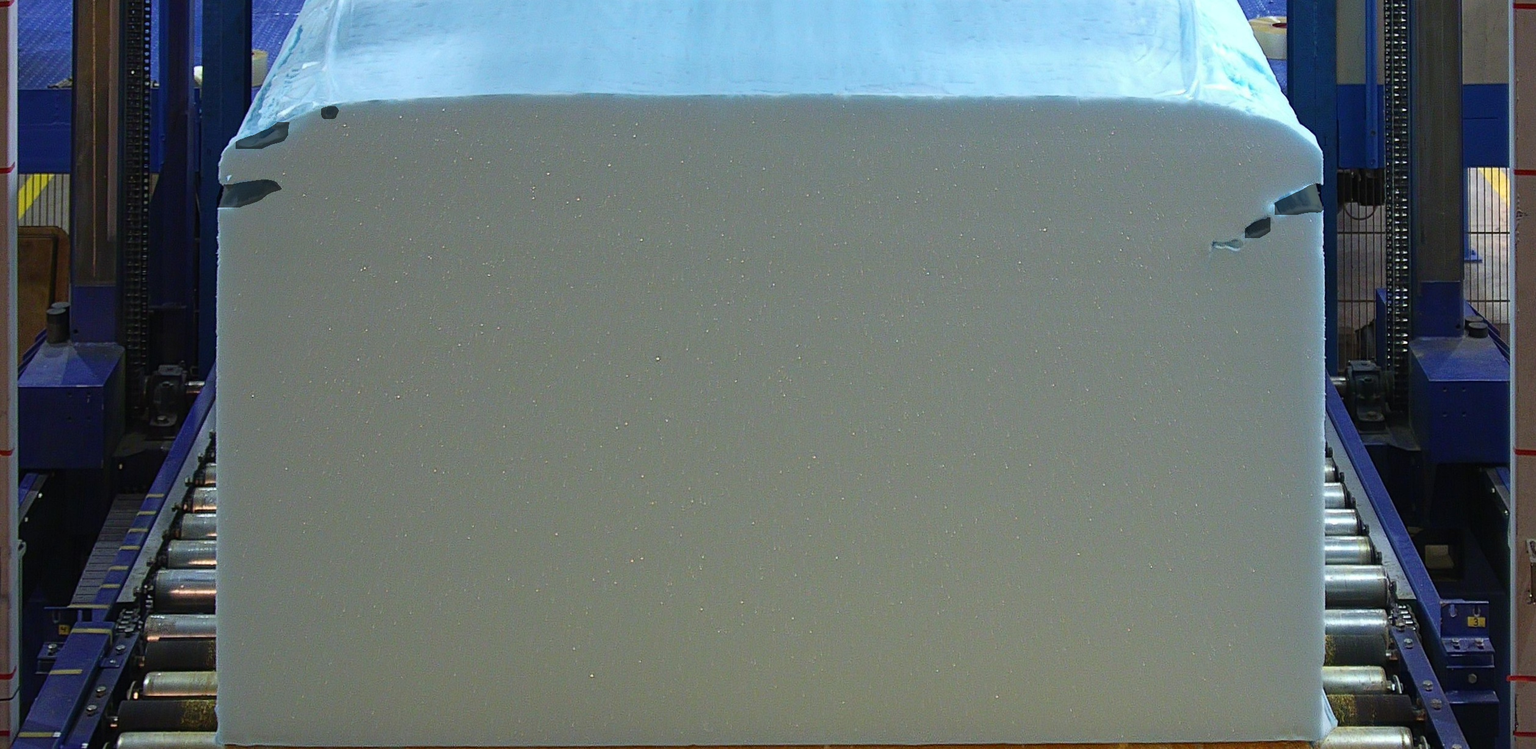
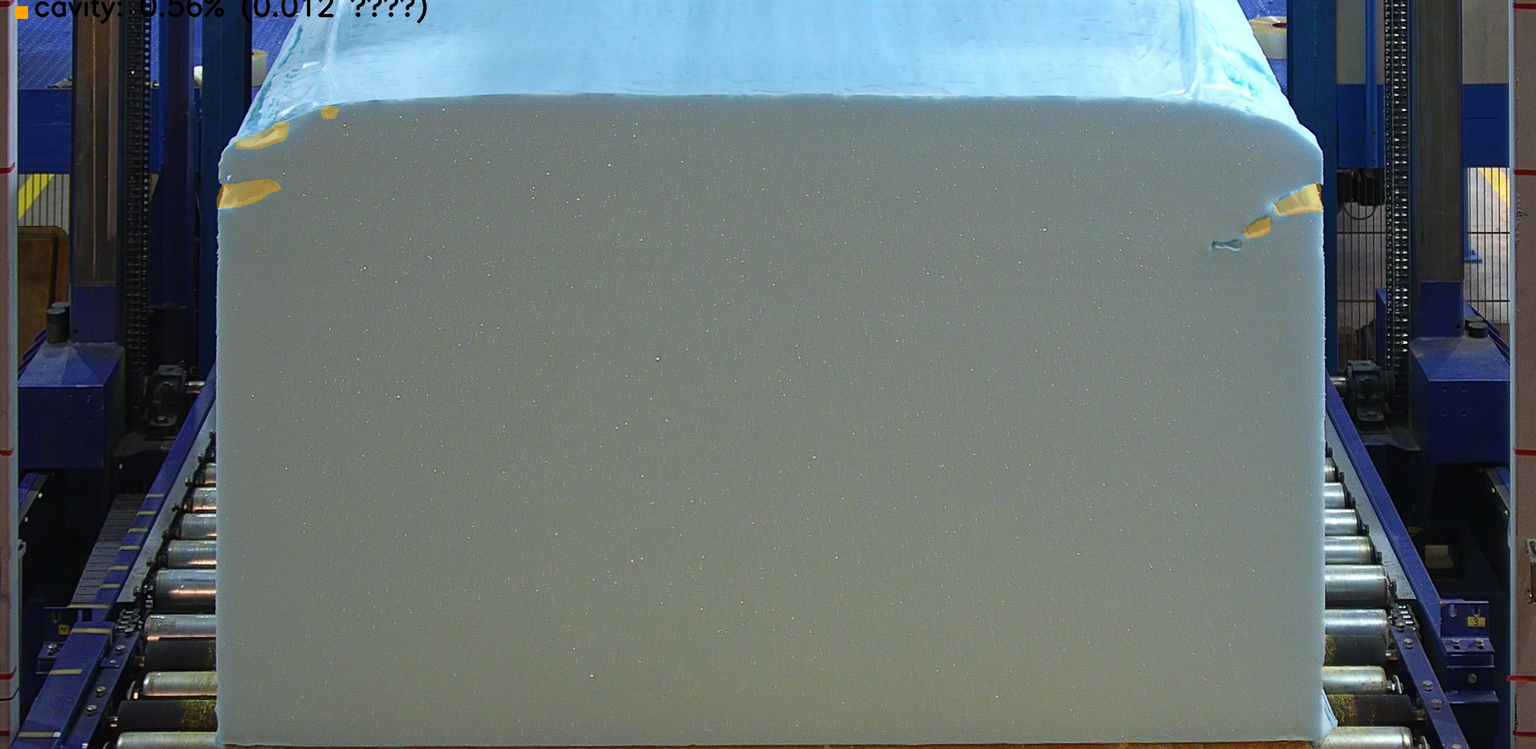
push

diff --git a/src/inference/onnx_inf.py b/src/inference/onnx_inf.py
@@ -1,11 +1,23 @@
+# src/inference/onnx_inf.py
 #!/usr/bin/env python3
 # -*- coding: utf-8 -*-
 """
-Универсальный инференс YOLOv8-Seg (ONNX Runtime) для:
-  • профиля  (combine="best")  – одна лучшая маска
-  • дефектов (combine="union") – объединение всех масок > conf
+Универсальный инференс YOLOv8-Seg (ONNX Runtime).
+
+Поддерживает два режима:
+  • combine="best"   – возвращается одна маска с максимальным confidence
+    (используем для сегментации профиля).
+  • combine="all"    – возвращаются ВСЕ маски, прошедшие NMS-порог;
+    вместе с классами и «склеенной» union-маской (для дефектов).
+
+call() → tuple:
+    mask_union : np.ndarray | None      # uint8 (H×W) 0/255   (best → одиночная)
+    overlay    : np.ndarray | None      # BGR-картинка с заливкой
+    masks_all  : np.ndarray | None      # (N,H,W) uint8 0/255 (None если combine="best")
+    cls_ids    : list[int]  | None      # классы длиной N      (None если combine="best")
 """
 from __future__ import annotations
+
 from pathlib import Path
 from typing import Tuple, Optional, Literal
 
@@ -17,18 +29,21 @@ from ultralytics.utils import ops
 
 
 class Yolov8SegONNX:
-    # ----------------------------- init ---------------------------------
+    # ------------------------------------------------------------------ #
     def __init__(self, cfg: dict):
-        # общий config + под-модель
+        # ── основные параметры -----------------------------------------
         self.model_path: str | Path = cfg["onnx_model"]
-        self.imgsz          = (cfg.get("imgsz", 640),) * 2 if isinstance(cfg.get("imgsz", 640), int) else tuple(cfg["imgsz"])
-        self.conf: float    = cfg.get("conf_thres", 0.25)
-        self.iou: float     = cfg.get("iou_thres", 0.7)
-        self.nc: int        = cfg.get("num_classes", 1)
-        self.combine: Literal["best", "union"] = cfg.get("combine", "best")  # best | union
-        self.device: int | None = cfg.get("device", 0)
-        self.overlay_color = tuple(cfg.get("overlay_color", [0, 255, 0]))  # BGR
+        imgsz = cfg.get("imgsz", 640)
+        self.imgsz: Tuple[int, int] = (imgsz, imgsz) if isinstance(imgsz, int) else tuple(imgsz)
+        self.conf: float = cfg.get("conf_thres", 0.25)
+        self.iou:  float = cfg.get("iou_thres", 0.7)
+        self.nc:   int   = cfg.get("num_classes", 1)
+        self.combine: Literal["best", "all"] = cfg.get("combine", "best")
 
+        self.overlay_color = tuple(cfg.get("overlay_color", [0, 255, 0]))  # BGR
+        self.device: int | None = cfg.get("device", 0)
+
+        # ── ORT session -------------------------------------------------
         providers, provider_opts = (["CPUExecutionProvider"], None)
         if torch.cuda.is_available():
             providers = ["CUDAExecutionProvider", "CPUExecutionProvider"]
@@ -39,17 +54,22 @@ class Yolov8SegONNX:
         )
         self.input_name = self.session.get_inputs()[0].name
 
-    # ----------------------------- call ---------------------------------
-    def __call__(self, img_bgr: np.ndarray) -> Tuple[Optional[np.ndarray], Optional[np.ndarray]]:
+    # ------------------------------------------------------------------ #
+    def __call__(
+        self, img_bgr: np.ndarray
+    ) -> Tuple[Optional[np.ndarray], Optional[np.ndarray],
+               Optional[np.ndarray], Optional[list[int]]]:
         prep, r_info = self._preprocess(img_bgr)
         preds, protos = self.session.run(None, {self.input_name: prep})
-        mask = self._postprocess(img_bgr, preds, protos, r_info)
-        if mask is None:
-            return None, None
-        overlay = self._draw_overlay(img_bgr, mask)
-        return mask, overlay
 
-    # ------------------------- helpers ----------------------------------
+        mask_union, masks_all, cls_ids = self._postprocess(img_bgr, preds, protos, r_info)
+        if mask_union is None:
+            return None, None, None, None
+
+        overlay = self._draw_overlay(img_bgr, mask_union)
+        return mask_union, overlay, masks_all, cls_ids
+
+    # =============================  helpers  =========================== #
     def _letterbox(self, im: np.ndarray, new_shape):
         h0, w0 = im.shape[:2]
         nh, nw = new_shape
@@ -66,48 +86,58 @@ class Yolov8SegONNX:
 
     def _preprocess(self, img_bgr):
         img, r, dw, dh = self._letterbox(img_bgr, self.imgsz)
-        img = img[..., ::-1].transpose(2, 0, 1)  # BGR→RGB, HWC→CHW
+        img = img[..., ::-1].transpose(2, 0, 1)        # BGR → RGB, HWC → CHW
         img = np.ascontiguousarray(img, dtype=np.float32) / 255.0
         return img[None], (r, dw, dh, img_bgr.shape[:2])
 
-    # ------------------------- postprocess ------------------------------
-    def _postprocess(self, img_bgr, preds, protos, r_info) -> Optional[np.ndarray]:
+    # ------------------------------------------------------------------ #
+    def _postprocess(self, img_bgr, preds, protos, r_info):
         r, dw, dh, (h0, w0) = r_info
+
         preds_t = torch.tensor(preds, dtype=torch.float32)
         if preds_t.ndim == 2:
-            preds_t = preds_t.unsqueeze(0)
+            preds_t = preds_t.unsqueeze(0)             # (N,dim) → (1,N,dim)
 
-        protos_t = torch.tensor(protos[0], dtype=torch.float32)  # (c,mh,mw)
+        protos_t = torch.tensor(protos[0], dtype=torch.float32)  # (c, mh, mw)
         dets = ops.non_max_suppression(preds_t, self.conf, self.iou, nc=self.nc)[0]
         if dets is None or not len(dets):
-            return None
+            return None, None, None
 
-        # ----- choose detections ---------------------------------------
-        if self.combine == "best":
+        if self.combine == "best":                     # одна маска
             dets = dets[dets[:, 4].argmax().unsqueeze(0)]
 
+        # масштаб bbox-ов к исходному warped-изображению
         dets[:, :4] = ops.scale_boxes(self.imgsz, dets[:, :4], (h0, w0))
+
         masks = self._mask_from_proto(protos_t, dets[:, 6:], dets[:, :4], (h0, w0))
+        cls_ids = dets[:, 5].int().tolist()
 
         if self.combine == "best":
-            mask = masks[0]
-        else:  # union
-            mask = masks.any(dim=0)
+            mask_union = masks[0]
+            return mask_union.cpu().numpy().astype(np.uint8) * 255, None, None
 
-        return (mask.cpu().numpy().astype(np.uint8) * 255)
+        # combine == "all" : берём union-маску + возвращаем все маски и классы
+        mask_union = masks.any(dim=0)
+        masks_np = (masks.cpu().numpy().astype(np.uint8) * 255)  # (N,H,W)
+        return (
+            mask_union.cpu().numpy().astype(np.uint8) * 255,
+            masks_np,
+            cls_ids,
+        )
 
+    # ------------------------------------------------------------------ #
     @staticmethod
     def _mask_from_proto(protos, mcoef, bboxes, img_shape):
         c, mh, mw = protos.shape
-        mcoef = mcoef[:, :c]        # подрез — устраняет несоответствие 33×32
+        mcoef = mcoef[:, :c]                # подрезаем, если mcoef > c
         masks = (mcoef @ protos.reshape(c, -1)).reshape(-1, mh, mw)
         masks = ops.scale_masks(masks[None], img_shape)[0]
         masks = ops.crop_mask(masks, bboxes)
         return masks.gt_(0.0)
 
-    # ------------------------- overlay ----------------------------------
-    def _draw_overlay(self, img, mask):
+    # ------------------------------------------------------------------ #
+    def _draw_overlay(self, img, mask_union):
         overlay = img.copy()
         col = np.array(self.overlay_color, dtype=np.uint8)
-        overlay[mask == 255] = 0.4 * overlay[mask == 255] + 0.6 * col
+        overlay[mask_union == 255] = 0.4 * overlay[mask_union == 255] + 0.6 * col
         return overlay.astype(np.uint8)

diff --git a/src/service.py b/src/service.py
@@ -15,7 +15,7 @@ from watchdog.events import FileSystemEventHandler
 
 from src.preprocessing import DistortionCorrector, PerspectiveTransformer
 from src.inference import Yolov8SegONNX
-from src.postprocessing import ProfileMetrics
+from src.postprocessing import ProfileMetrics, DefectMetrics
 
 
 # --------------------------------------------------------------------------- #
@@ -45,6 +45,11 @@ class PipelineHandler(FileSystemEventHandler):
             color_first    =tuple(cfg.get("color_first",  [0, 255, 0])),
             color_second   =tuple(cfg.get("color_second", [0, 165, 255])),
         )
+
+        # пост процессинг дефектов
+        def_conf = cfg["defect_classes"]
+        self.def_post = DefectMetrics(def_conf, font_scale=cfg.get("font_scale",1.0),
+                              thickness=cfg.get("font_thickness",2))
 
     # -------------------- production-callback ---------------------------
     def on_closed(self, event):
@@ -84,31 +89,40 @@ class PipelineHandler(FileSystemEventHandler):
             cv2.imwrite(str(self.output_dir / f"{jpg_path.stem}_warped.png"), warped)
 
             # 3-а) сегментация профиля
-            mask_prof, overlay_prof = self.seg_profile(warped)
+            mask_prof, ov_prof, _, _ = self.seg_profile(warped)
             if mask_prof is None:
                 logging.warning(f"No profile mask for {jpg_path.name}")
                 return
 
             # 3-б) сегментация дефектов
-            mask_def, overlay_def = self.seg_defect(warped)
+            mask_def, _, masks_nd, cls_ids = self.seg_defect(warped)
             # (mask_def может быть None, это ОК – просто нет дефектов)
 
             # 4) пост-процессинг профиля
-            metrics, overlay_prof = self.post(mask_prof, scale, warped, overlay_prof)
+            prof_metrics, ov_prof = self.post(mask_prof, scale, warped, ov_prof)
 
+            def_metrics, ov_def = {}, None
+            if mask_def is not None and masks_nd is not None:
+                def_metrics, ov_def = self.def_post(masks_nd, cls_ids, scale, warped,
+                                        prof_metrics["area_first_m2"])
             # 5) сохраняем всё
             stem = jpg_path.stem
             cv2.imwrite(str(self.output_dir / f"{stem}_mask_profile.png"), mask_prof)
-            cv2.imwrite(str(self.output_dir / f"{stem}_overlay_profile.jpg"), overlay_prof)
 
             if mask_def is not None:
                 cv2.imwrite(str(self.output_dir / f"{stem}_mask_defects.png"), mask_def)
-                cv2.imwrite(str(self.output_dir / f"{stem}_overlay_defects.jpg"), overlay_def)
 
+            cv2.imwrite(str(self.output_dir / f"{stem}_overlay_profile.jpg"), ov_prof)
+            if ov_def is not None:
+                cv2.imwrite(str(self.output_dir / f"{stem}_overlay_defects.jpg"), ov_def)
+
+            # JSON
+            all_metrics = {**prof_metrics, **def_metrics}
             with open(self.output_dir / f"{stem}.json", "w", encoding="utf-8") as jf:
-                json.dump(metrics, jf, ensure_ascii=False, indent=2)
+                json.dump(all_metrics, jf, ensure_ascii=False, indent=2)
+            
+            logging.info(f"{stem}: {all_metrics}")
 
-            logging.info(f"{stem}: {metrics}")
 
         except Exception as e:
             logging.exception(f"Error processing {jpg_path.name}: {e}")

diff --git a/src/postprocessing/defect_metrics.py b/src/postprocessing/defect_metrics.py
@@ -1,0 +1,60 @@
+#!/usr/bin/env python3
+# -*- coding: utf-8 -*-
+"""
+Подсчёт площадей дефектов по классам + overlay с легендой.
+"""
+from __future__ import annotations
+import cv2, numpy as np
+from typing import Dict, List, Tuple
+
+class DefectMetrics:
+    def __init__(self, class_conf: Dict[int, dict], font_scale=1.0, thickness=2):
+        self.font = cv2.FONT_HERSHEY_SIMPLEX
+        self.fs   = font_scale
+        self.th   = thickness
+        # class_conf: {id: {"name": str, "color": [B,G,R]}}
+        self.cls  = {int(k): v for k, v in class_conf.items()}
+
+    # ------------------------------------------------------------------
+    def __call__(
+        self,
+        masks: np.ndarray,          # (N, H, W) uint8 0/255
+        cls_ids: List[int],         # len N
+        scale: float,
+        base_overlay: np.ndarray,
+        area_first_m2: float,
+    ):
+        H, W = base_overlay.shape[:2]
+        overlay = base_overlay.copy()
+        metrics = {}
+
+        # суммируем по классам
+        uniq = sorted(set(cls_ids))
+        alpha = 0.45
+        legend_y = 25
+
+        for cid in uniq:
+            cls_mask = np.any(masks[np.array(cls_ids) == cid], axis=0)  # (H,W) bool
+            if not cls_mask.any():
+                continue
+            color = np.array(self.cls[cid]["color"], dtype=np.uint8)
+            overlay[cls_mask] = (1 - alpha) * overlay[cls_mask] + alpha * color
+
+            # площадь
+            pixels = int(cls_mask.sum())
+            area_cm2 = pixels / (scale * scale)
+            area_m2  = area_cm2 / 10_000
+            pct      = round(100 * area_m2 / area_first_m2, 2) if area_first_m2 else 0
+
+            name = self.cls[cid]["name"]
+            metrics[f"{name}_m2"]  = round(area_m2, 3)
+            metrics[f"{name}_pct"] = pct
+
+            # легенда
+            cv2.rectangle(overlay, (25, legend_y - 15), (45, legend_y + 5), color.tolist(), -1)
+            text = f"{name}: {pct}% ({area_m2:.3f} м²)"
+            cv2.putText(overlay, text, (55, legend_y), self.font, self.fs,
+                        (0, 0, 0), self.th, cv2.LINE_AA)
+            legend_y += 35
+
+        return metrics, overlay

diff --git a/src/postprocessing/__init__.py b/src/postprocessing/__init__.py
@@ -1,1 +1,2 @@
 from .profile_metrics import ProfileMetrics
+from .defect_metrics import DefectMetrics
